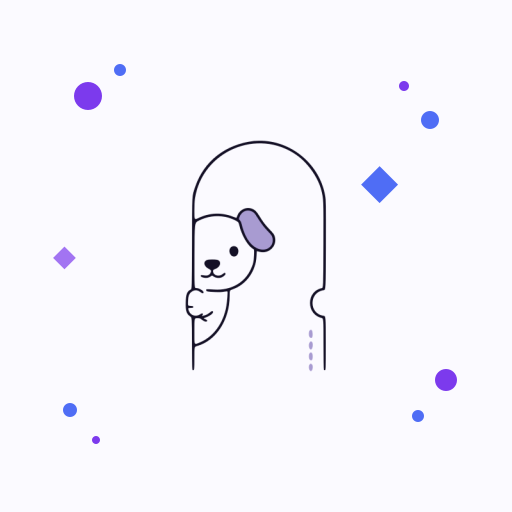
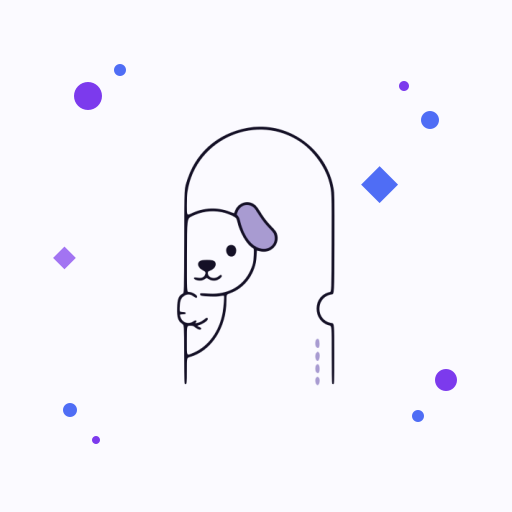
fix(pwa): agranda un poco más el perrito del ícono PWA
dogSize 0.82→0.94 (estándar), 0.64→0.72 (maskable) — a pedido, se veía
chico al descargar la PWA.

Changed region(s): [[0.3438, 0.2188, 0.6562, 0.75]]

diff --git a/src/lib/seo/pwaIcon.tsx b/src/lib/seo/pwaIcon.tsx
@@ -48,7 +48,7 @@ export async function createPwaIcon(size: number, opts?: { maskable?: boolean })
   const scale = size / 512;
   // Safe-zone: la maskable la recorta el SO a círculo/squircle, así que el
   // perrito y los chispazos se achican para quedar dentro del área segura.
-  const dogSize = size * (maskable ? 0.64 : 0.82);
+  const dogSize = size * (maskable ? 0.72 : 0.94);
   const radius = size * 0.22;
 
   return new ImageResponse(
